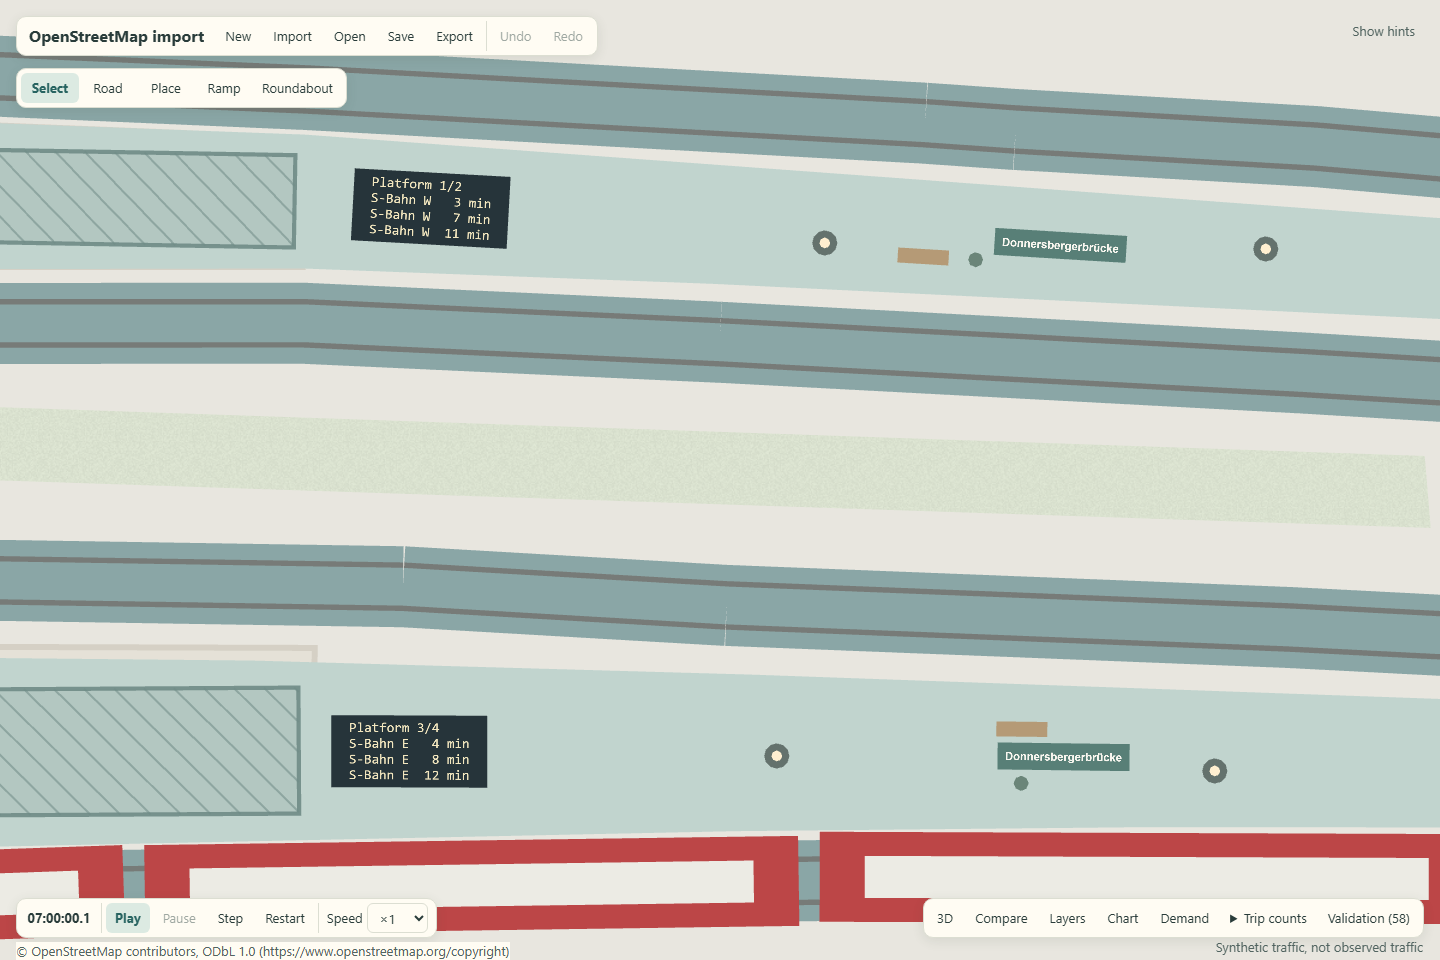
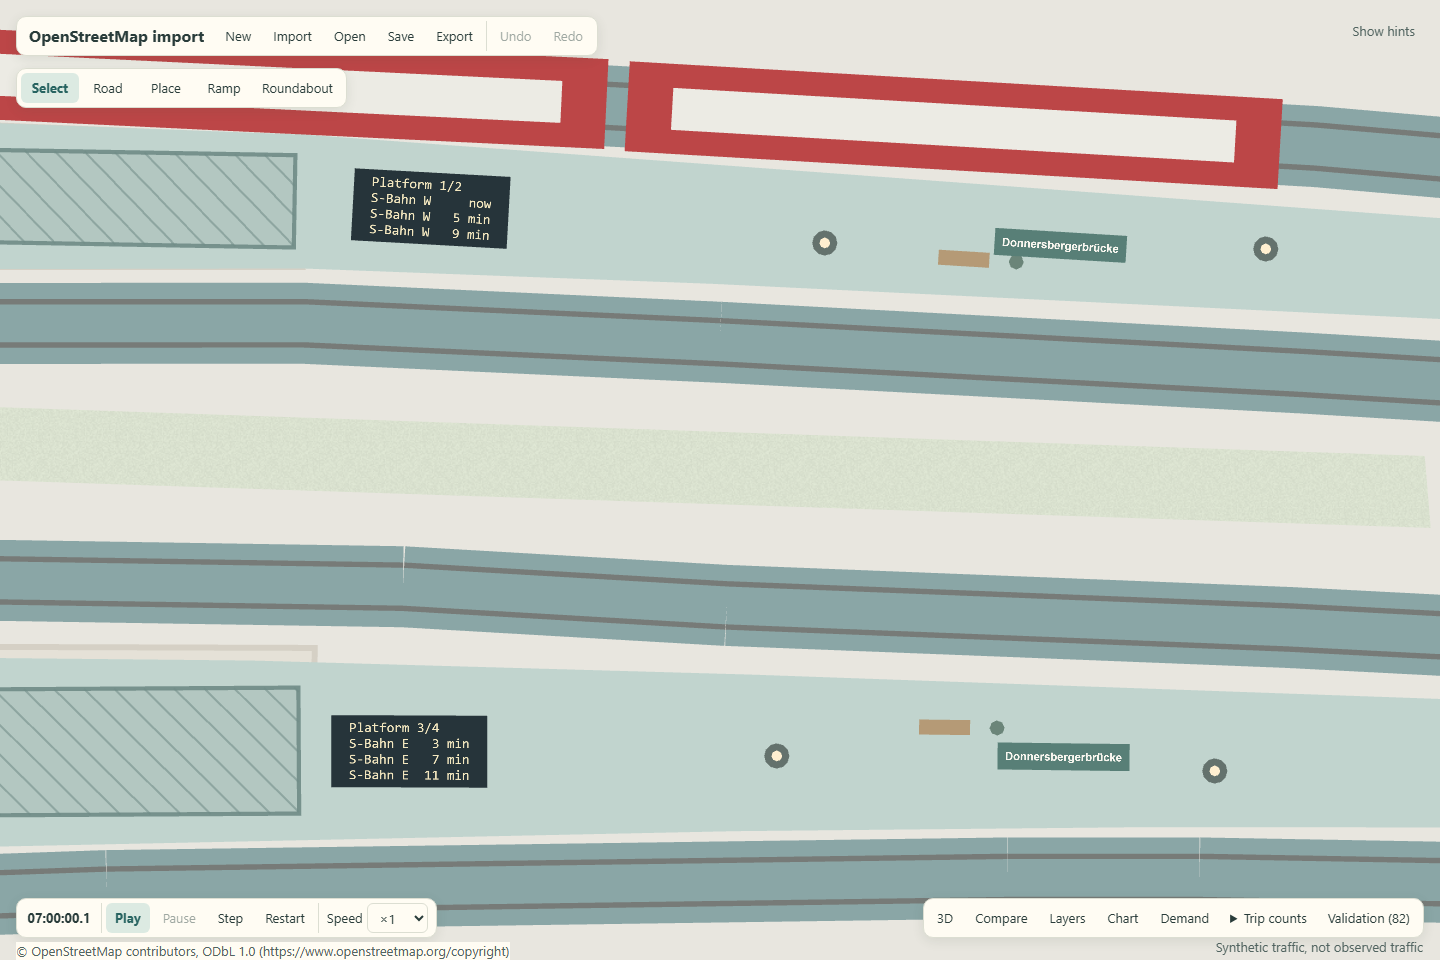
fix(render): T70 for the TASK-131 main, and a timetable hash that survives float noise (TASK-133)
ADDENDUM (after merging main c3a6ec2)

Merge: `git merge --no-ff main` was clean (docs/architecture.md and
src/render/scene.ts auto-merged).

T70 for the new main
- Donnersbergerbrucke is still p:1484 (its platforms are now rp:10743 and
  rp:10744, entrances wn:3218, wn:2911, wn:2290). The city-tier test and the
  e2e use the new ids; the e2e takes platform ids from the placement, not
  from constants.
- At 07:00 the displays read W now / 5 / 9 min (rp:10743) and E 3 / 7 / 11
  min (rp:10744), pinned in the city-tier test.
- The e2e no longer assumes the clock: expected rows come from
  `departureDisplay` on the page city's own timetable at 0, 60, 120, 160 and
  300 s, "now" is asserted exactly when `platformDepartures` says the train
  has arrived, and the rows must change over the run.
- The shelter and board shot is taken at the next time no train stands within
  60 m (a train now stands at 07:00 in front of that view).

The disagreement (Node compile of the page's city against the page)
- Cause 1, in the test: the e2e's 07:00 poll compared the page against
  hard-coded W 3/7/11 and E 4/8/12 rows from before TASK-131, so the "expected"
  rows in the failure were stale constants, not a Node compile. The page was
  right.
- Cause 2, real: the timetable hash was over every float. The browser's import
  and Node's import of the same file differ by about 1e-9 m in projected
  coordinates (max 1.2e-9 m on nodes, 1.2e-9 m on track lengths). That gave
[…]

diff --git a/tests/e2e/T70-station-furniture.spec.ts b/tests/e2e/T70-station-furniture.spec.ts
@@ -1,9 +1,11 @@
 import { expect, test, type Locator, type Page, type TestInfo } from '@playwright/test';
+import { readFileSync } from 'node:fs';
 import { mkdir } from 'node:fs/promises';
 import { join } from 'node:path';
 import { button, city, importOsm, pageErrors } from './helpers';
+import { importOsmCached } from '../../bench/city-cache';
 import { compile } from '../../src/network';
-import { trainTimetable } from '../../src/network/trains';
+import { platformDepartures, trainsAt, trainTimetable } from '../../src/network/trains';
 import { departureDisplay, placeStationFurniture } from '../../src/render/station-furniture';
 import type { Vec2 } from '../../src/geo/vec2';
 
@@ -116,9 +118,20 @@ test('T70 Donnersbergerbrücke furniture in 2D and 3D: displays follow the clock
   const source = await city(page),
     compiled = compile(source);
   if (!compiled.ok) throw Error('compile');
+  // The browser's import differs from Node's by about 1e-9 m in coordinates; the timetable hash
+  // must not notice.
+  const headless = importOsmCached(readFileSync('fixtures/osm/munich-donnersberger.osm', 'utf8'), {
+    importerVersion: '1',
+  });
+  if (!headless.ok) throw Error('import');
+  const headlessCompiled = compile(headless.city);
+  if (!headlessCompiled.ok) throw Error('compile');
+  expect(trainTimetable(compiled.compiled.rail!).hash).toBe(
+    trainTimetable(headlessCompiled.compiled.rail!).hash,
+  );
   const furniture = placeStationFurniture(compiled.compiled, source);
   const [west, east] = furniture.platforms;
-  expect(furniture.platforms.map((p) => p.platform)).toEqual(['rp:10736', 'rp:10737']);
+  expect(furniture.platforms.map((p) => p.platform)).toEqual(['rp:10743', 'rp:10744']);
   const both = {
     x: (west!.display!.x + east!.display!.x) / 2 + 10,
     y: (west!.display!.y + east!.display!.y) / 2,
@@ -132,11 +145,6 @@ test('T70 Donnersbergerbrücke furniture in 2D and 3D: displays follow the clock
   await page.keyboard.press('Escape');
   const start = 7 * 3600;
   await seek(page, start);
-  const rows = (platform: string, dir: string, minutes: (string | number)[]) =>
-    `${platform}\n${minutes
-      .map((m) => `S-Bahn ${dir}  ${(typeof m === 'number' ? `${m} min` : m).padStart(6)}`)
-      .join('\n')}`;
-
   for (const view of ['2d', '3d'] as const) {
     if (view === '3d') await button(page, '3D').click();
     const canvas = page.getByLabel(view === '2d' ? 'City map' : '3D city view', { exact: true });
@@ -153,11 +161,7 @@ test('T70 Donnersbergerbrücke furniture in 2D and 3D: displays follow the clock
       displays: 2,
       entrances: 3,
     });
-    // 07:00: the next three departures per platform from TASK-127's timetable.
     await centre(page, both, view, view === '2d' ? 30 : 36);
-    await expect
-      .poll(() => displays(canvas))
-      .toEqual([rows('Platform 1/2', 'W', [3, 7, 11]), rows('Platform 3/4', 'E', [4, 8, 12])]);
     if (view === '2d') {
       // Text only for what is in view, at most 24 labels.
       const labels = Number(await canvas.getAttribute('data-station-labels'));
@@ -166,8 +170,6 @@ test('T70 Donnersbergerbrücke furniture in 2D and 3D: displays follow the clock
     }
     await shot(canvas, info, `donnersberger-displays-0700-${view}.png`);
     if (view === '3d') {
-      await centre(page, { x: board.x + 3, y: board.y }, '3d', 36, 18, 150);
-      await shot(canvas, info, 'shelter-and-board-3d.png');
       await centre(page, { x: 175, y: -131 }, '3d', 7, 40, 0);
       await shot(canvas, info, 'donnersberger-platforms-0700-3d.png');
     } else {
@@ -177,32 +179,49 @@ test('T70 Donnersbergerbrücke furniture in 2D and 3D: displays follow the clock
       expect(Number(await canvas.getAttribute('data-station-labels'))).toBe(0);
       await centre(page, both, '2d', 30);
     }
-    // The clock runs: the rows follow the timetable (3D repaints on 30 s buckets), a standing
-    // train reads "now", and a train that has left drops off the list.
-    const table = trainTimetable(compiled.compiled.rail!);
+    // The rows follow the timetable (3D repaints on 30 s buckets). Expectations come from the
+    // timetable of the page's own city, never from fixed clock values.
+    const rail = compiled.compiled.rail!,
+      table = trainTimetable(rail);
+    const ids = furniture.platforms.map((p) => p.platform);
     const expectAt = async (offset: number) => {
       await seek(page, start + offset);
       const t = await page.evaluate(async () => (await window.cityflows!.metrics()).timeS);
       const at = view === '3d' ? Math.floor(t / 30) * 30 : t;
-      const text = (platform: string) => {
-        const { header, rows } = departureDisplay(compiled.compiled.rail!, table, platform, at);
+      const expected = ids.map((platform) => {
+        const { header, rows } = departureDisplay(rail, table, platform, at);
         return [header, ...rows].join('\n');
-      };
-      const expected = [text('rp:10736'), text('rp:10737')];
+      });
       await expect.poll(() => displays(canvas)).toEqual(expected);
+      // A row reads "now" exactly while its train stands.
+      ids.forEach((platform, i) => {
+        const [next] = platformDepartures(rail, table, platform, at, 1);
+        expect(expected[i]!.split('\n')[1]!.endsWith('now')).toBe(next!.arrivalS <= at);
+      });
       return expected;
     };
-    const first = await expectAt(0);
-    const second = await expectAt(120);
-    expect(second).not.toEqual(first);
-    expect(second[0]).toContain('now');
-    const third = await expectAt(300);
-    expect(third[0]).toContain('2 min');
-    expect(third[0]).not.toContain('now');
+    const seen = new Set<string>();
+    for (const offset of [0, 60, 120, 160, 300]) seen.add((await expectAt(offset)).join('|'));
+    expect(seen.size).toBeGreaterThan(2);
     if (view === '3d') {
       // Repaints follow the 30 s buckets, not the frames: at most one per display per bucket.
       const draws = Number(await canvas.getAttribute('data-station-display-draws'));
       expect(draws).toBeLessThanOrEqual(2 * 12);
+    }
+    if (view === '3d') {
+      // The close shot of a shelter and a board, at the next time no train stands within 60 m.
+      const now = await page.evaluate(async () => (await window.cityflows!.metrics()).timeS);
+      let clear = now;
+      while (
+        clear < now + table.periodS &&
+        trainsAt(rail, table, clear).some((train) =>
+          train.cars.some((car) => Math.hypot(car.x - board.x, car.y - board.y) < 60),
+        )
+      )
+        clear += 5;
+      await seek(page, clear);
+      await centre(page, { x: board.x + 3, y: board.y }, '3d', 36, 18, 150);
+      await shot(canvas, info, 'shelter-and-board-3d.png');
     }
     // An entrance sign: the generic station symbol and the name, outside the door.
     if (view === '2d') {

diff --git a/tests/render/T70-station-furniture.test.ts b/tests/render/T70-station-furniture.test.ts
@@ -356,8 +356,8 @@ test('T70 furniture changes neither the city nor the timetable', () => {
   platformDepartures(rail, trainTimetable(rail), 'rp:1', 1000);
   expect(JSON.stringify(city)).toBe(before);
   expect(buildTimetable(rail).hash).toBe(hash);
-  // Pinned on main (7a93d97): TASK-133 adds a read-only helper and leaves the timetable alone.
-  expect(hash).toBe('255c0ec6');
+  // Pinned: the timetable hash covers routes, stops and departures to 0.01 s (it was over raw floats).
+  expect(hash).toBe('dde7c44e');
 });
 
 test.each(tierCities(['munich-donnersberger']))(
@@ -372,7 +372,7 @@ test.each(tierCities(['munich-donnersberger']))(
       cc = compiled(city),
       furniture = placeStationFurniture(cc, city);
     expect(JSON.stringify(city)).toBe(snapshot);
-    expect(furniture.platforms.map((p) => p.platform)).toEqual(['rp:10736', 'rp:10737']);
+    expect(furniture.platforms.map((p) => p.platform)).toEqual(['rp:10743', 'rp:10744']);
     expect(furniture.entrances).toHaveLength(3);
     expectOnPlatform(city, furniture.platforms);
     for (const p of furniture.platforms) {
@@ -398,16 +398,29 @@ test.each(tierCities(['munich-donnersberger']))(
     // 07:00: the next three S-Bahn departures per platform, from the TASK-127 timetable.
     const rail = cc.rail!,
       table = trainTimetable(rail);
-    expect(table.hash).toBe('374c1e78');
-    expect(departureDisplay(rail, table, 'rp:10736', 25200).rows).toEqual([
-      'S-Bahn W   3 min',
-      'S-Bahn W   7 min',
-      'S-Bahn W  11 min',
+    expect(table.hash).toBe('0d505d0f');
+    expect(departureDisplay(rail, table, 'rp:10743', 25200).rows).toEqual([
+      'S-Bahn W     now',
+      'S-Bahn W   5 min',
+      'S-Bahn W   9 min',
     ]);
-    expect(departureDisplay(rail, table, 'rp:10737', 25200).rows).toEqual([
-      'S-Bahn E   4 min',
-      'S-Bahn E   8 min',
-      'S-Bahn E  12 min',
+    expect(departureDisplay(rail, table, 'rp:10744', 25200).rows).toEqual([
+      'S-Bahn E   3 min',
+      'S-Bahn E   7 min',
+      'S-Bahn E  11 min',
     ]);
   },
 );
+
+test('T70 the timetable hash ignores float noise below a millimetre (browser against Node projection)', () => {
+  const city = trainCity(),
+    hash = buildTimetable(compileRail(city)!).hash;
+  const noisy = JSON.parse(JSON.stringify(city)) as City;
+  const nudge = (p: Vec2) => {
+    p.x += 1.2e-9;
+    p.y -= 0.9e-9;
+  };
+  for (const n of Object.values(noisy.rail!.nodes)) nudge(n.pos);
+  for (const t of Object.values(noisy.rail!.tracks)) t.line.forEach(nudge);
+  expect(buildTimetable(compileRail(noisy)!).hash).toBe(hash);
+});

diff --git a/src/network/trains.ts b/src/network/trains.ts
@@ -450,7 +450,24 @@ export function buildTimetable(rail: RailGraph): TrainTimetable {
     departures,
     unused: rail.tracks.filter((t) => !used.has(t.idx)).map((t) => t.id),
   };
-  return { ...table, hash: hash(JSON.stringify(table)) };
+  // The hash covers what the timetable decides (routes, stops, departures), with times to 0.01 s.
+  // Raw floats would not do: the same import in a browser and in Node differs by about 1e-9 m in
+  // projected coordinates, so hashing every float made one timetable look like two.
+  const cs = (v: number) => Math.round(v * 100) / 100;
+  const canonical = {
+    periodS,
+    routes: routes.map((r) => [
+      r.id,
+      r.kind,
+      r.terminal ?? null,
+      r.sections.map((s) => [s.track, s.forward]),
+      r.stops.map((s) => [s.platform, cs(s.arrivalS)]),
+      cs(r.durationS),
+    ]),
+    departures: departures.map((d) => [d.route, cs(d.timeS), d.requestedS]),
+    unused: table.unused,
+  };
+  return { ...table, hash: hash(JSON.stringify(canonical)) };
 }
 const cache = new WeakMap<RailGraph, TrainTimetable>();
 export function trainTimetable(rail: RailGraph) {
